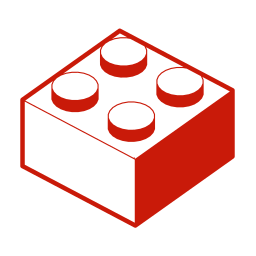
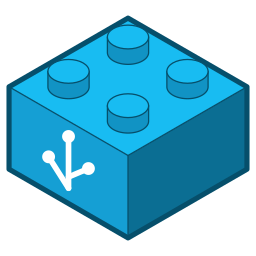
feat: draw brand assets as a real 2x2 brick
Replaces the placeholder with an isometric brick in Home Assistant blue
carrying the HA tree on its front face. Proportions are taken from a real 2x2
brick rather than from a drawing: 16 mm footprint, 9.6 mm body, 4.8 mm studs
1.8 mm tall at 8 mm pitch. Studs are self-contained shapes drawn after the top
face so their outlines are never interrupted by the brick's edges, and the
outer silhouette is stroked at 2.0 against 0.5 for internal lines.

Also points the documentation and issue tracker at the renamed repository.

diff --git a/scripts/generate_brand.py b/scripts/generate_brand.py
@@ -1,7 +1,9 @@
 #!/usr/bin/env python3
-"""Render the HACS brand assets from assets/brick.svg.
+"""Draw the brand assets: an isometric 2x2 LEGO brick carrying the HA tree.
 
-Run from the repo root:
+Proportions come from a real 2x2 brick rather than from any drawing: a 16 mm
+footprint, 9.6 mm body, and 4.8 mm studs 1.8 mm tall at 8 mm pitch, all
+expressed as multiples of the plan square side. Run from the repo root:
 
     python3 scripts/generate_brand.py
 """
@@ -14,45 +16,173 @@ from pathlib import Path
 import cairosvg
 from PIL import Image
 
-SOURCE = Path("assets/brick.svg")
 BRAND_DIR = Path("custom_components/lego/brand")
 
-ICON_MARGIN = 0.06
-LOGO_MARGIN = 0.10
+ISO = 0.57735  # tan(30 degrees)
+
+# Real brick dimensions over the 16 mm footprint.
+BODY = 9.6 / 16
+STUD_R = 2.4 / 16
+STUD_RISE = 1.8 / 16
+STUD_AT = (0.25, 0.75)
+
+TOP = "#18BCF2"
+LEFT = "#159FD4"
+RIGHT = "#0B6E93"
+STUD_SIDE = "#1193C4"
+EDGE = "#064F6B"
+
+OUTER_STROKE = 2.0
+INNER_STROKE = 0.5
+
+APEX = (50.0, 8.0)
+HALF_WIDTH = 46.0
 
 
-def _render(size: int) -> Image.Image:
-    """Rasterise the brick to a square RGBA image."""
+def _pts(points: list[tuple[float, float]]) -> str:
+    return " ".join(f"{x:.3f},{y:.3f}" for x, y in points)
+
+
+def brick(a: float = HALF_WIDTH) -> tuple[str, tuple]:
+    """Draw the brick, returning its markup and front-left face corners."""
+    ax, ay = APEX
+    side = a * 1.1547  # plan square side: the rhombus diagonal over cos(30)
+    u = (a, ISO * a)
+    v = (-a, ISO * a)
+    height = BODY * side
+    r = STUD_R * side
+    ry = r * ISO
+    rise = STUD_RISE * side
+
+    p_apex = (ax, ay)
+    p_right = (ax + u[0], ay + u[1])
+    p_front = (ax + u[0] + v[0], ay + u[1] + v[1])
+    p_left = (ax + v[0], ay + v[1])
+    b_right = (p_right[0], p_right[1] + height)
+    b_front = (p_front[0], p_front[1] + height)
+    b_left = (p_left[0], p_left[1] + height)
+
+    studs = sorted(
+        (
+            ay + u[1] * su + v[1] * sv - rise,
+            ax + u[0] * su + v[0] * sv,
+        )
+        for su in STUD_AT
+        for sv in STUD_AT
+    )
+
+    parts = [
+        f'<polygon points="{_pts([p_left, p_front, b_front, b_left])}" fill="{LEFT}"/>',
+        f'<polygon points="{_pts([p_front, p_right, b_right, b_front])}" '
+        f'fill="{RIGHT}"/>',
+        f'<polygon points="{_pts([p_apex, p_right, p_front, p_left])}" fill="{TOP}"/>',
+        f'<g stroke="{EDGE}" stroke-width="{INNER_STROKE}" fill="none" '
+        f'stroke-linecap="round">'
+        f'<path d="M{p_left[0]:.3f},{p_left[1]:.3f} L{p_front[0]:.3f},{p_front[1]:.3f} '
+        f'L{p_right[0]:.3f},{p_right[1]:.3f}"/>'
+        f'<path d="M{p_front[0]:.3f},{p_front[1]:.3f} '
+        f'L{b_front[0]:.3f},{b_front[1]:.3f}"/></g>',
+        f"<polygon points="
+        f'"{_pts([p_apex, p_right, b_right, b_front, b_left, p_left])}" '
+        f'fill="none" stroke="{EDGE}" stroke-width="{OUTER_STROKE}" '
+        f'stroke-linejoin="round"/>',
+    ]
+    for cy, cx in studs:
+        parts.append(
+            f'<g stroke="{EDGE}" stroke-width="{INNER_STROKE}" stroke-linejoin="round">'
+            f'<path fill="{STUD_SIDE}" d="M{cx - r:.3f},{cy:.3f} v{rise:.3f} '
+            f'a{r:.3f},{ry:.3f} 0 0 0 {r * 2:.3f},0 v{-rise:.3f} z"/>'
+            f'<ellipse fill="{TOP}" cx="{cx:.3f}" cy="{cy:.3f}" '
+            f'rx="{r:.3f}" ry="{ry:.3f}"/></g>'
+        )
+
+    return "".join(parts), (p_left, p_front, b_front, b_left)
+
+
+def tree(face: tuple, height: float, fill: str = "#FFFFFF", width: float = 17.0) -> str:
+    """Place the Home Assistant tree on the front-left face.
+
+    The face's slope is applied to the node positions rather than to the drawing:
+    shearing the strokes turns the round caps into ellipses and leaves a seam
+    where each node meets its branch.
+    """
+    p_left, p_front, b_front, b_left = face
+    slope = (p_front[1] - p_left[1]) / (p_front[0] - p_left[0])
+    radius = width * 1.14
+
+    def p(x: float, y: float) -> tuple[float, float]:
+        return x, y + slope * x
+
+    stem = (p(120, 83.77), p(120, 239.76))
+    left = (p(60, 179.76), p(120, 239.76))
+    right = (p(180, 145.77), p(120, 205.77))
+    nodes = (p(120, 83.77), p(60, 179.76), p(180, 145.77))
+
+    pts = (*nodes, stem[1], left[1], right[1])
+    x0 = min(x for x, _ in pts) - radius
+    x1 = max(x for x, _ in pts) + radius
+    y0 = min(y for _, y in pts) - radius
+    y1 = max(y for _, y in pts) + radius
+    scale = height / (y1 - y0)
+
+    cx = (p_left[0] + p_front[0] + b_front[0] + b_left[0]) / 4
+    cy = (p_left[1] + p_front[1] + b_front[1] + b_left[1]) / 4
+    tx = cx - (x0 + (x1 - x0) / 2) * scale
+    ty = cy - (y0 + (y1 - y0) / 2) * scale
+
+    lines = "".join(
+        f'<line x1="{a[0]:.2f}" y1="{a[1]:.2f}" x2="{b[0]:.2f}" y2="{b[1]:.2f}"/>'
+        for a, b in (stem, left, right)
+    )
+    circles = "".join(
+        f'<circle cx="{x:.2f}" cy="{y:.2f}" r="{radius:.2f}"/>' for x, y in nodes
+    )
+    return (
+        f'<g transform="translate({tx:.3f},{ty:.3f}) scale({scale:.5f})">'
+        f'<g stroke="{fill}" stroke-width="{width}" stroke-linecap="round" '
+        f'fill="none">{lines}</g><g fill="{fill}">{circles}</g></g>'
+    )
+
+
+def icon_svg(tree_height: float = 25.0) -> str:
+    """Return the square icon."""
+    body, face = brick()
+    body += tree(face, tree_height)
+    side = HALF_WIDTH * 1.1547
+    span = max(2 * HALF_WIDTH, ISO * 2 * HALF_WIDTH + BODY * side) + OUTER_STROKE + 5
+    vx = APEX[0] - span / 2
+    vy = APEX[1] + (ISO * 2 * HALF_WIDTH + BODY * side) / 2 - span / 2
+    return (
+        '<svg xmlns="http://www.w3.org/2000/svg" '
+        f'viewBox="{vx:.2f} {vy:.2f} {span:.2f} {span:.2f}">{body}</svg>'
+    )
+
+
+def _render(svg: str, size: int) -> Image.Image:
     png = cairosvg.svg2png(
-        url=str(SOURCE), output_width=size, output_height=size, background_color=None
+        bytestring=svg.encode(), output_width=size, output_height=size
     )
     assert png is not None
     return Image.open(io.BytesIO(png)).convert("RGBA")
 
 
-def build_icon(size: int) -> Image.Image:
-    """Draw the brick centred on a square canvas."""
-    canvas = Image.new("RGBA", (size, size), (0, 0, 0, 0))
-    inner = round(size * (1 - ICON_MARGIN * 2))
-    brick = _render(inner)
-    canvas.alpha_composite(brick, ((size - inner) // 2, (size - inner) // 2))
-    return canvas
-
-
 def build_logo(width: int, height: int) -> Image.Image:
-    """Draw the brick centred on a landscape canvas."""
+    """Draw the icon centred on a landscape canvas."""
     canvas = Image.new("RGBA", (width, height), (0, 0, 0, 0))
-    inner = round(height * (1 - LOGO_MARGIN * 2))
-    brick = _render(inner)
-    canvas.alpha_composite(brick, ((width - inner) // 2, (height - inner) // 2))
+    inner = round(height * 0.88)
+    canvas.alpha_composite(
+        _render(icon_svg(), inner), ((width - inner) // 2, (height - inner) // 2)
+    )
     return canvas
 
 
 def main() -> None:
     """Write every brand asset."""
     BRAND_DIR.mkdir(parents=True, exist_ok=True)
-    build_icon(256).save(BRAND_DIR / "icon.png")
-    build_icon(512).save(BRAND_DIR / "icon@2x.png")
+    svg = icon_svg()
+    (BRAND_DIR.parent.parent.parent / "assets" / "brick.svg").write_text(svg + "\n")
+    _render(svg, 256).save(BRAND_DIR / "icon.png")
+    _render(svg, 512).save(BRAND_DIR / "icon@2x.png")
     build_logo(512, 256).save(BRAND_DIR / "logo.png")
     build_logo(1024, 512).save(BRAND_DIR / "logo@2x.png")
     for path in sorted(BRAND_DIR.glob("*.png")):

diff --git a/README.md b/README.md
@@ -42,7 +42,7 @@ Rebrickable support is planned as a separate config entry under this same integr
 ### HACS (recommended)
 
 1. In HACS, choose **Integrations → ⋮ → Custom repositories**.
-2. Add `https://github.com/PineappleEmperor/lego-ha` as an **Integration**.
+2. Add `https://github.com/PineappleEmperor/ha-lego` as an **Integration**.
 3. Install **LEGO**, then restart Home Assistant.
 
 ### Manual
@@ -227,10 +227,6 @@ If installed via HACS, uninstall it there afterwards and restart.
 
 Set data, images and pricing © [Brickset.com](https://brickset.com) — please support them
 by visiting the set pages this integration links to.
-
-Brick icon by [Lluisa Iborra](https://thenounproject.com/browse/icons/term/lego-brick/)
-from the [Noun Project](https://thenounproject.com), used under
-[CC BY 3.0](https://creativecommons.org/licenses/by/3.0/) and recoloured.
 
 ## Licence
 

diff --git a/CLAUDE.md b/CLAUDE.md
@@ -1,4 +1,4 @@
-# lego-ha
+# ha-lego
 
 Home Assistant custom integration exposing a LEGO collection from the Brickset API v3.
 Domain: `lego`. Package: `custom_components/lego/`.
